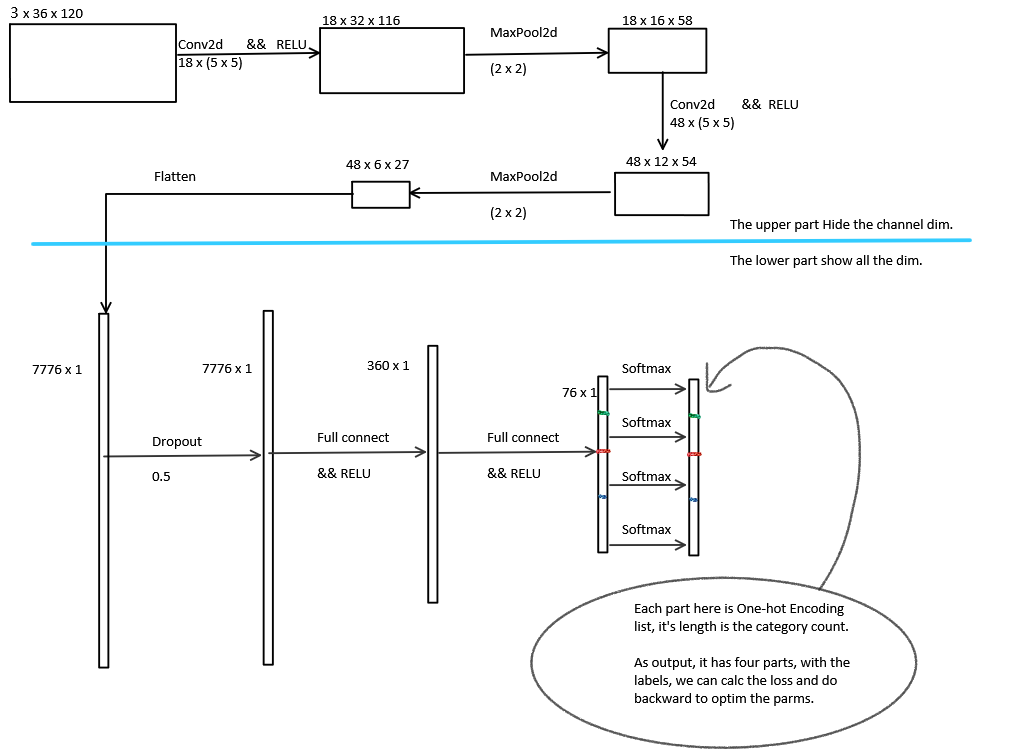
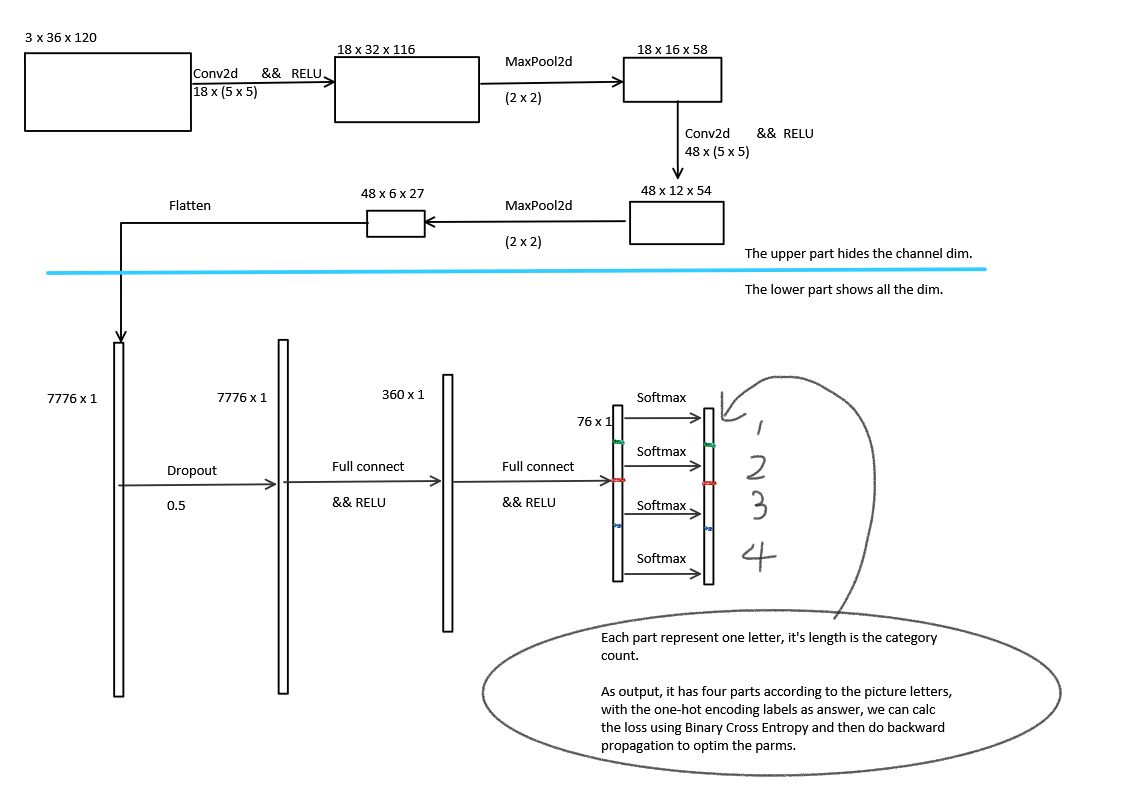
update README.md

diff --git a/README.md b/README.md
@@ -18,8 +18,8 @@ as training data. So, for different CAPTCHA, we have to find a specific
 method to split it. The benefits is that while splitting the picture, 
 we also expand the training data samples and reduce the problem size.
 
-Method used in this branch is that we see the whole picture as a training sample, 
-and it has four labels, so it becomes a multilabel-classification problems.
+Method used in this branch is that we see the whole picture as one training sample 
+with four labels, so it becomes a multilabel-classification problems.
 See model graph below for detail info.
 
 
@@ -40,7 +40,9 @@ Using 20k training set:
 
 ## Model Graph 
 
-```Sorry for my ugly painting, and welcome to make pull requests to make it better :)```
+```Sorry for ugly painting, waiting for your pull requests to make it better :)```
+
+
 ![model](https://github.com/skyduy/CNN_keras/blob/pytorch/achievements/model.png)
 
 
